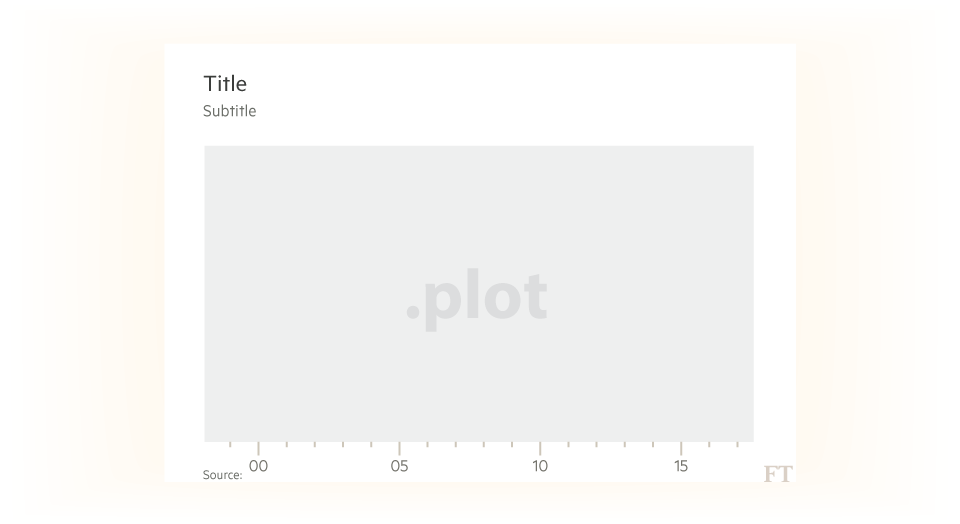
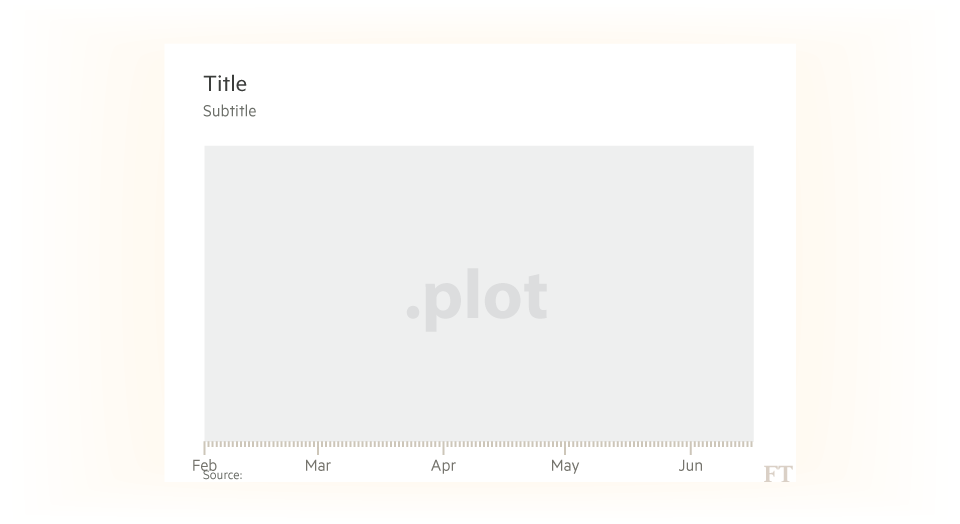
Add revised image and update README.md

Changed region(s): [[0.2188, 0.8244, 0.7812, 0.916], [0.1875, 0.855, 0.2188, 0.916]]

diff --git a/README.md b/README.md
@@ -68,7 +68,7 @@ myXAxis
  * "lustrum" -- minor axis ticks show years
  * "years" -- minor axis ticks show months
  * "quarters" -- minor axis ticks show months
- * "months" -- minor axis ticks show weeks
+ * "months" -- minor axis ticks show days
  * "weeks" -- minor axis ticks show days
  * "days" -- minor axis ticks show seconds
 
